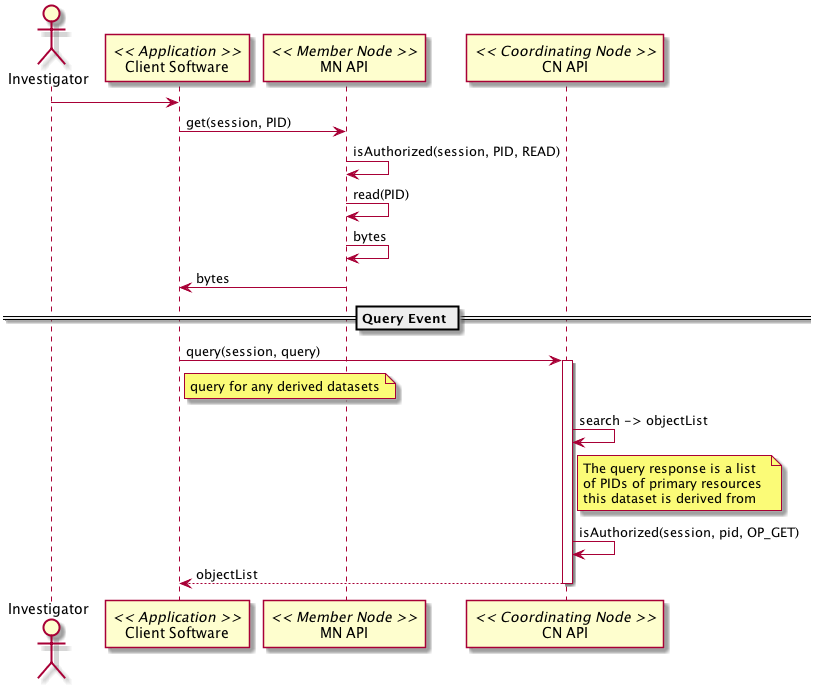
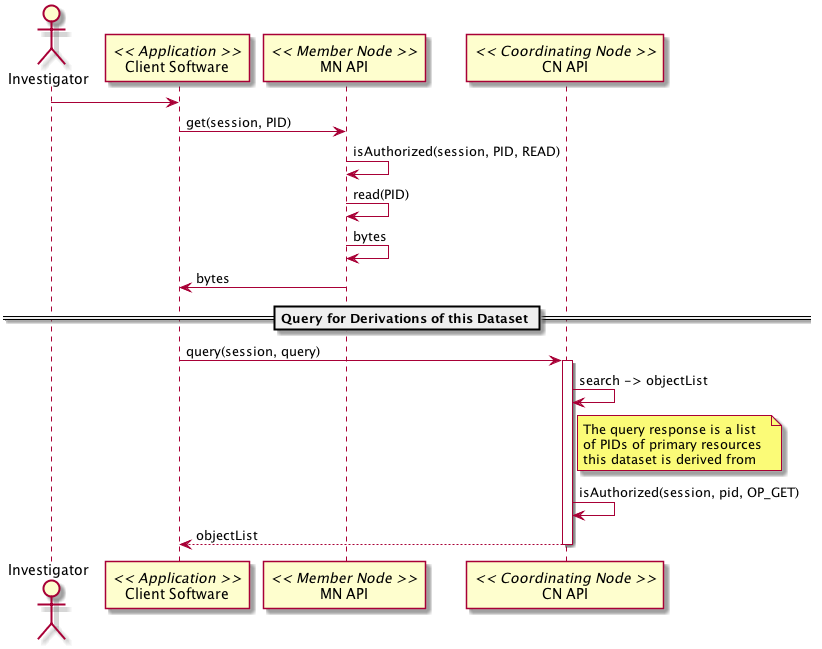
Describe the query event in use case 42

diff --git a/docs/use-cases/use-case-42.md b/docs/use-cases/use-case-42.md
@@ -43,12 +43,9 @@ get ..> query: <<includes>>
      mn_api <- mn_api: bytes
      app_client <- mn_api: bytes
      
-     == Query Event == 
+     == Query for Derivations of this Dataset == 
        
      app_client -> cn_api: query(session, query)
-     note right of app_client
-     query for any derived datasets
-     end note
      activate cn_api
 	   cn_api -> cn_api: search -> objectList
 	   note right of cn_api
